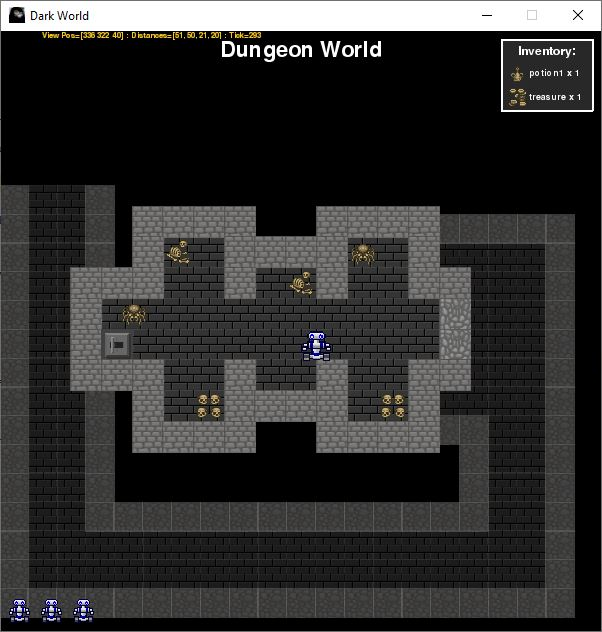
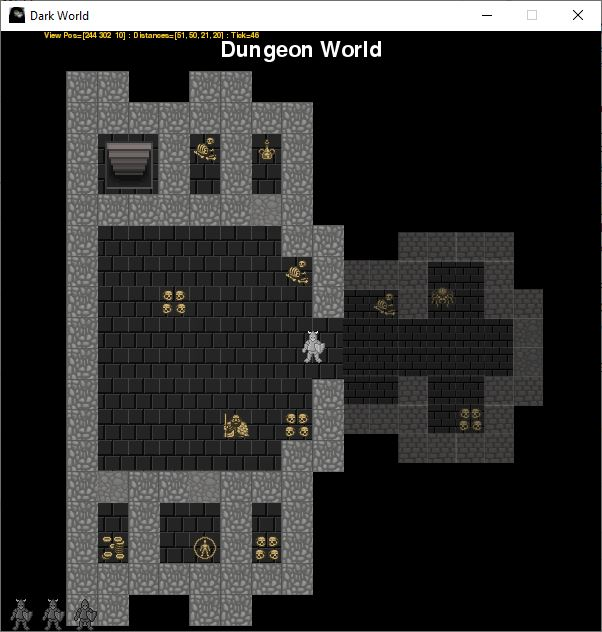
updated screen shots

diff --git a/darkworld/model/model.py b/darkworld/model/model.py
@@ -52,7 +52,8 @@ class DWModel():
         self.inventory_copy = copy.deepcopy(self.inventory)
         self.state = DWModel.STATE_READY
 
-        self.current_world_id = 30
+        self.current_world_id = 8
+
         self.move_world(self.current_world_id, do_copy=True)
 
     def get_next_world_id(self):
